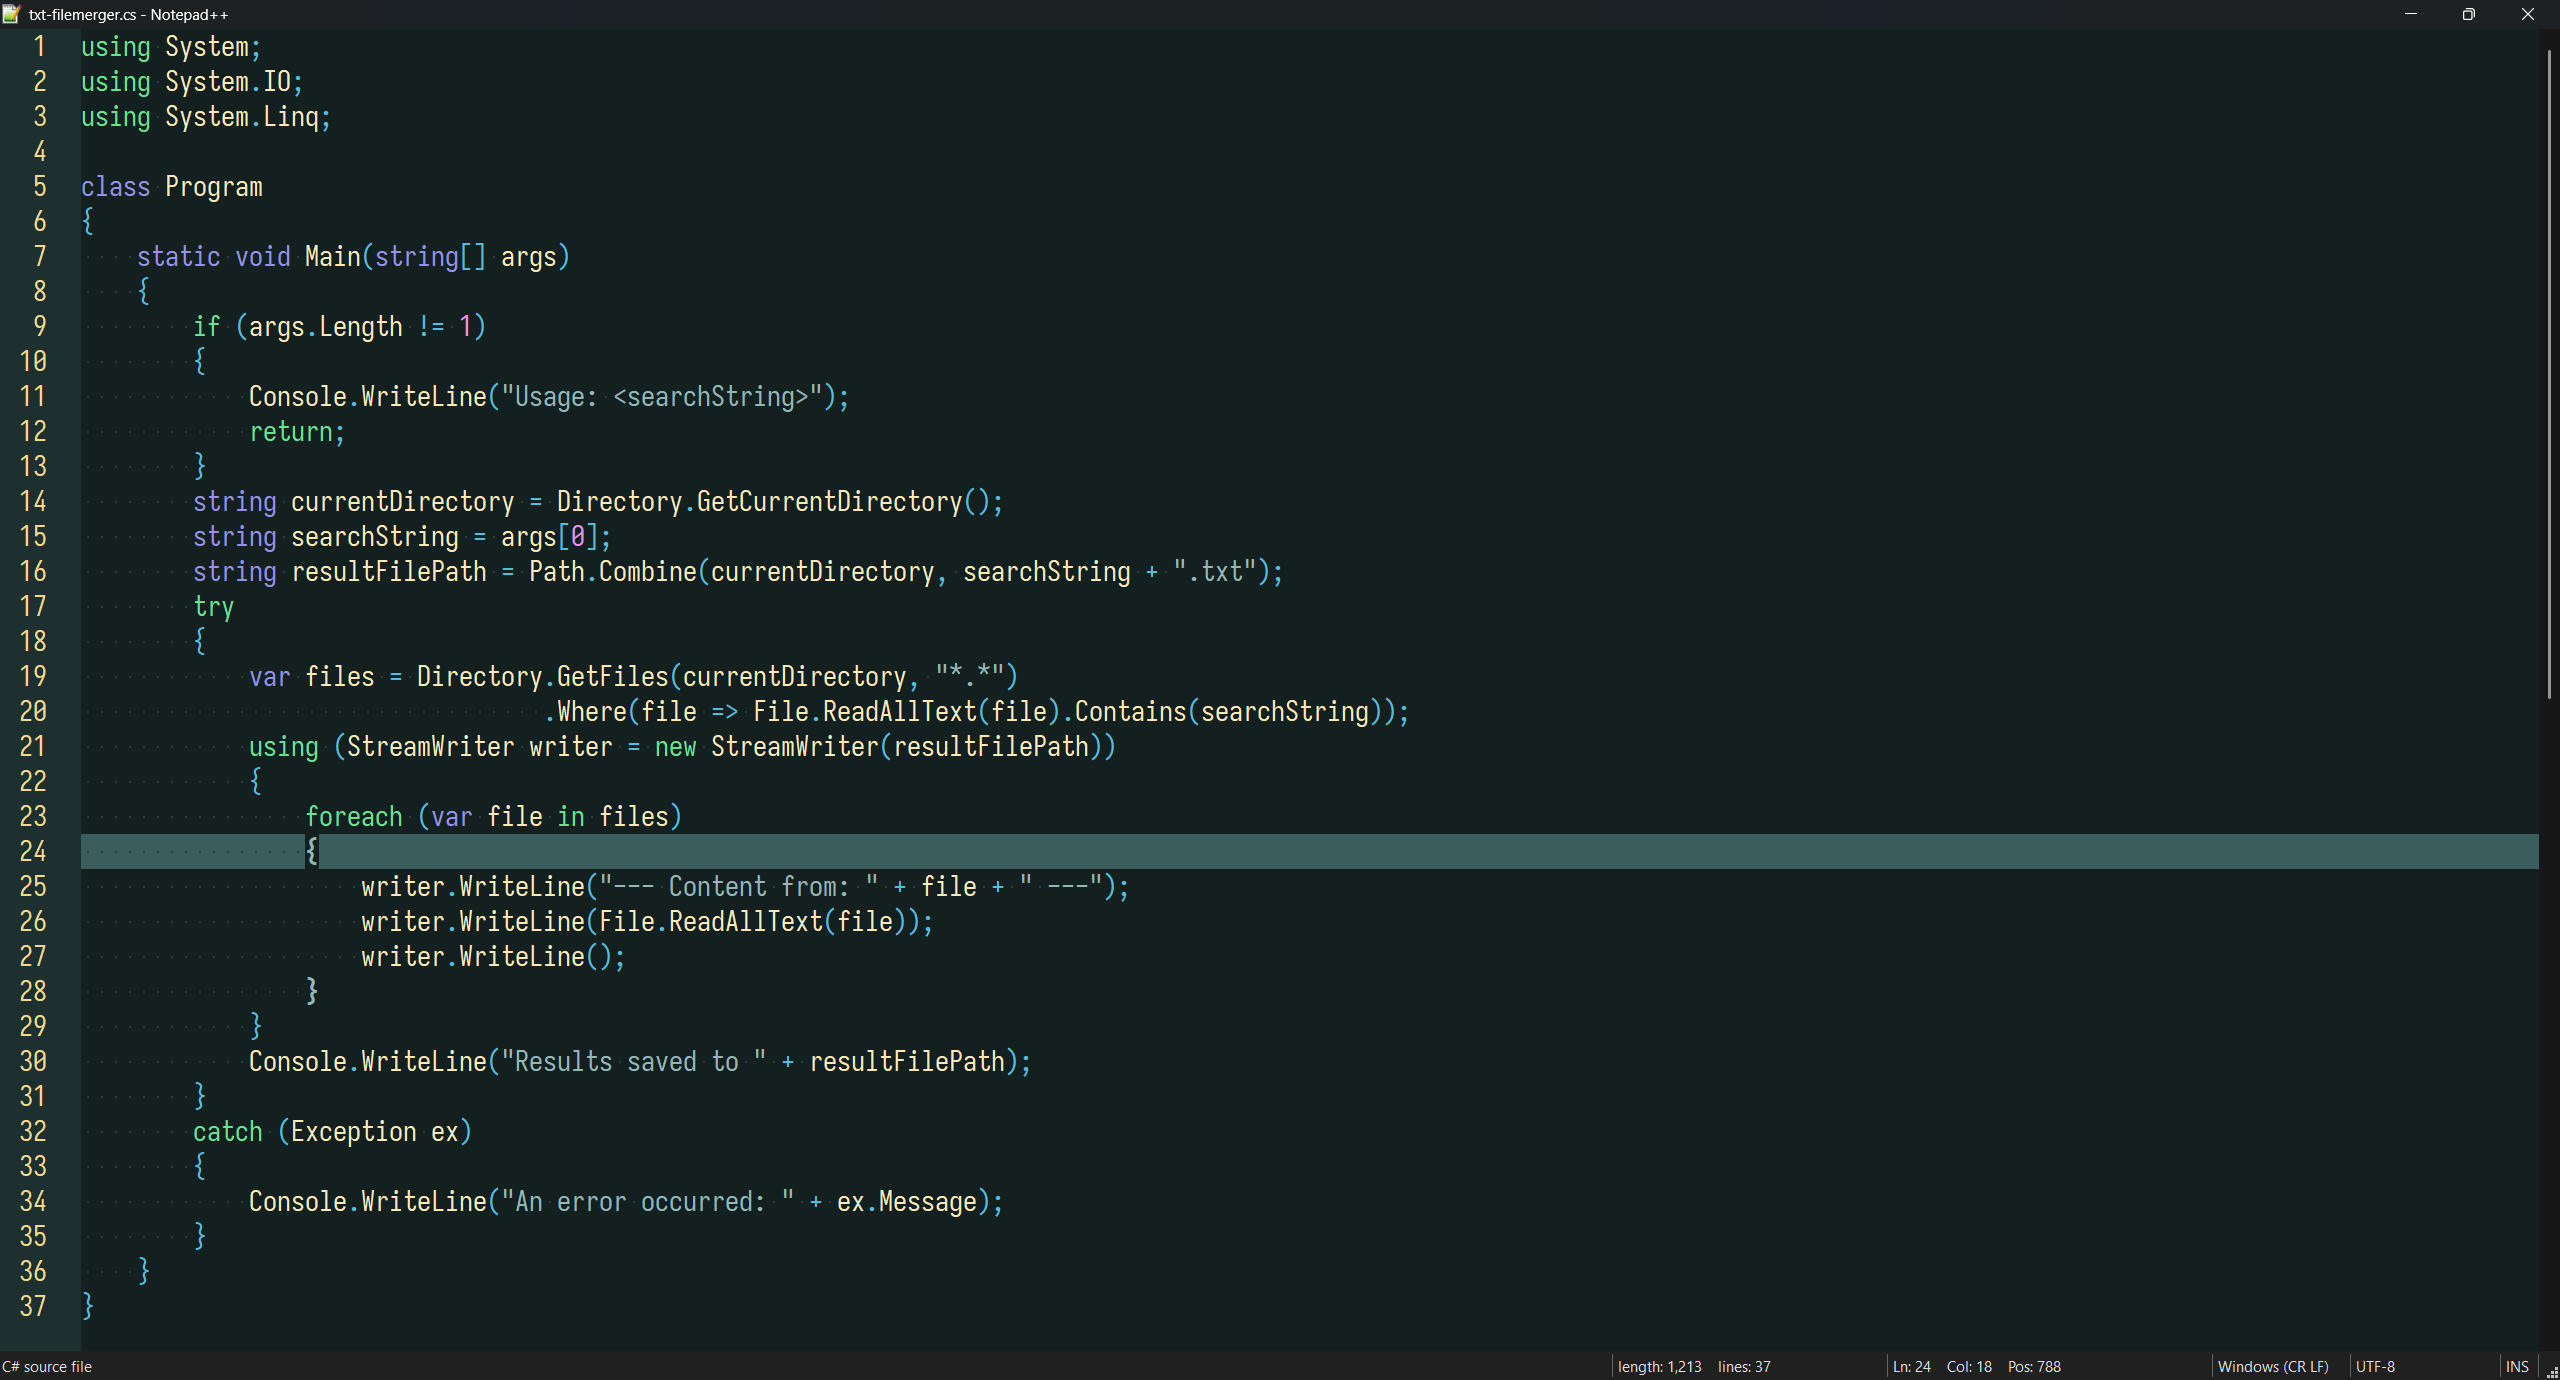
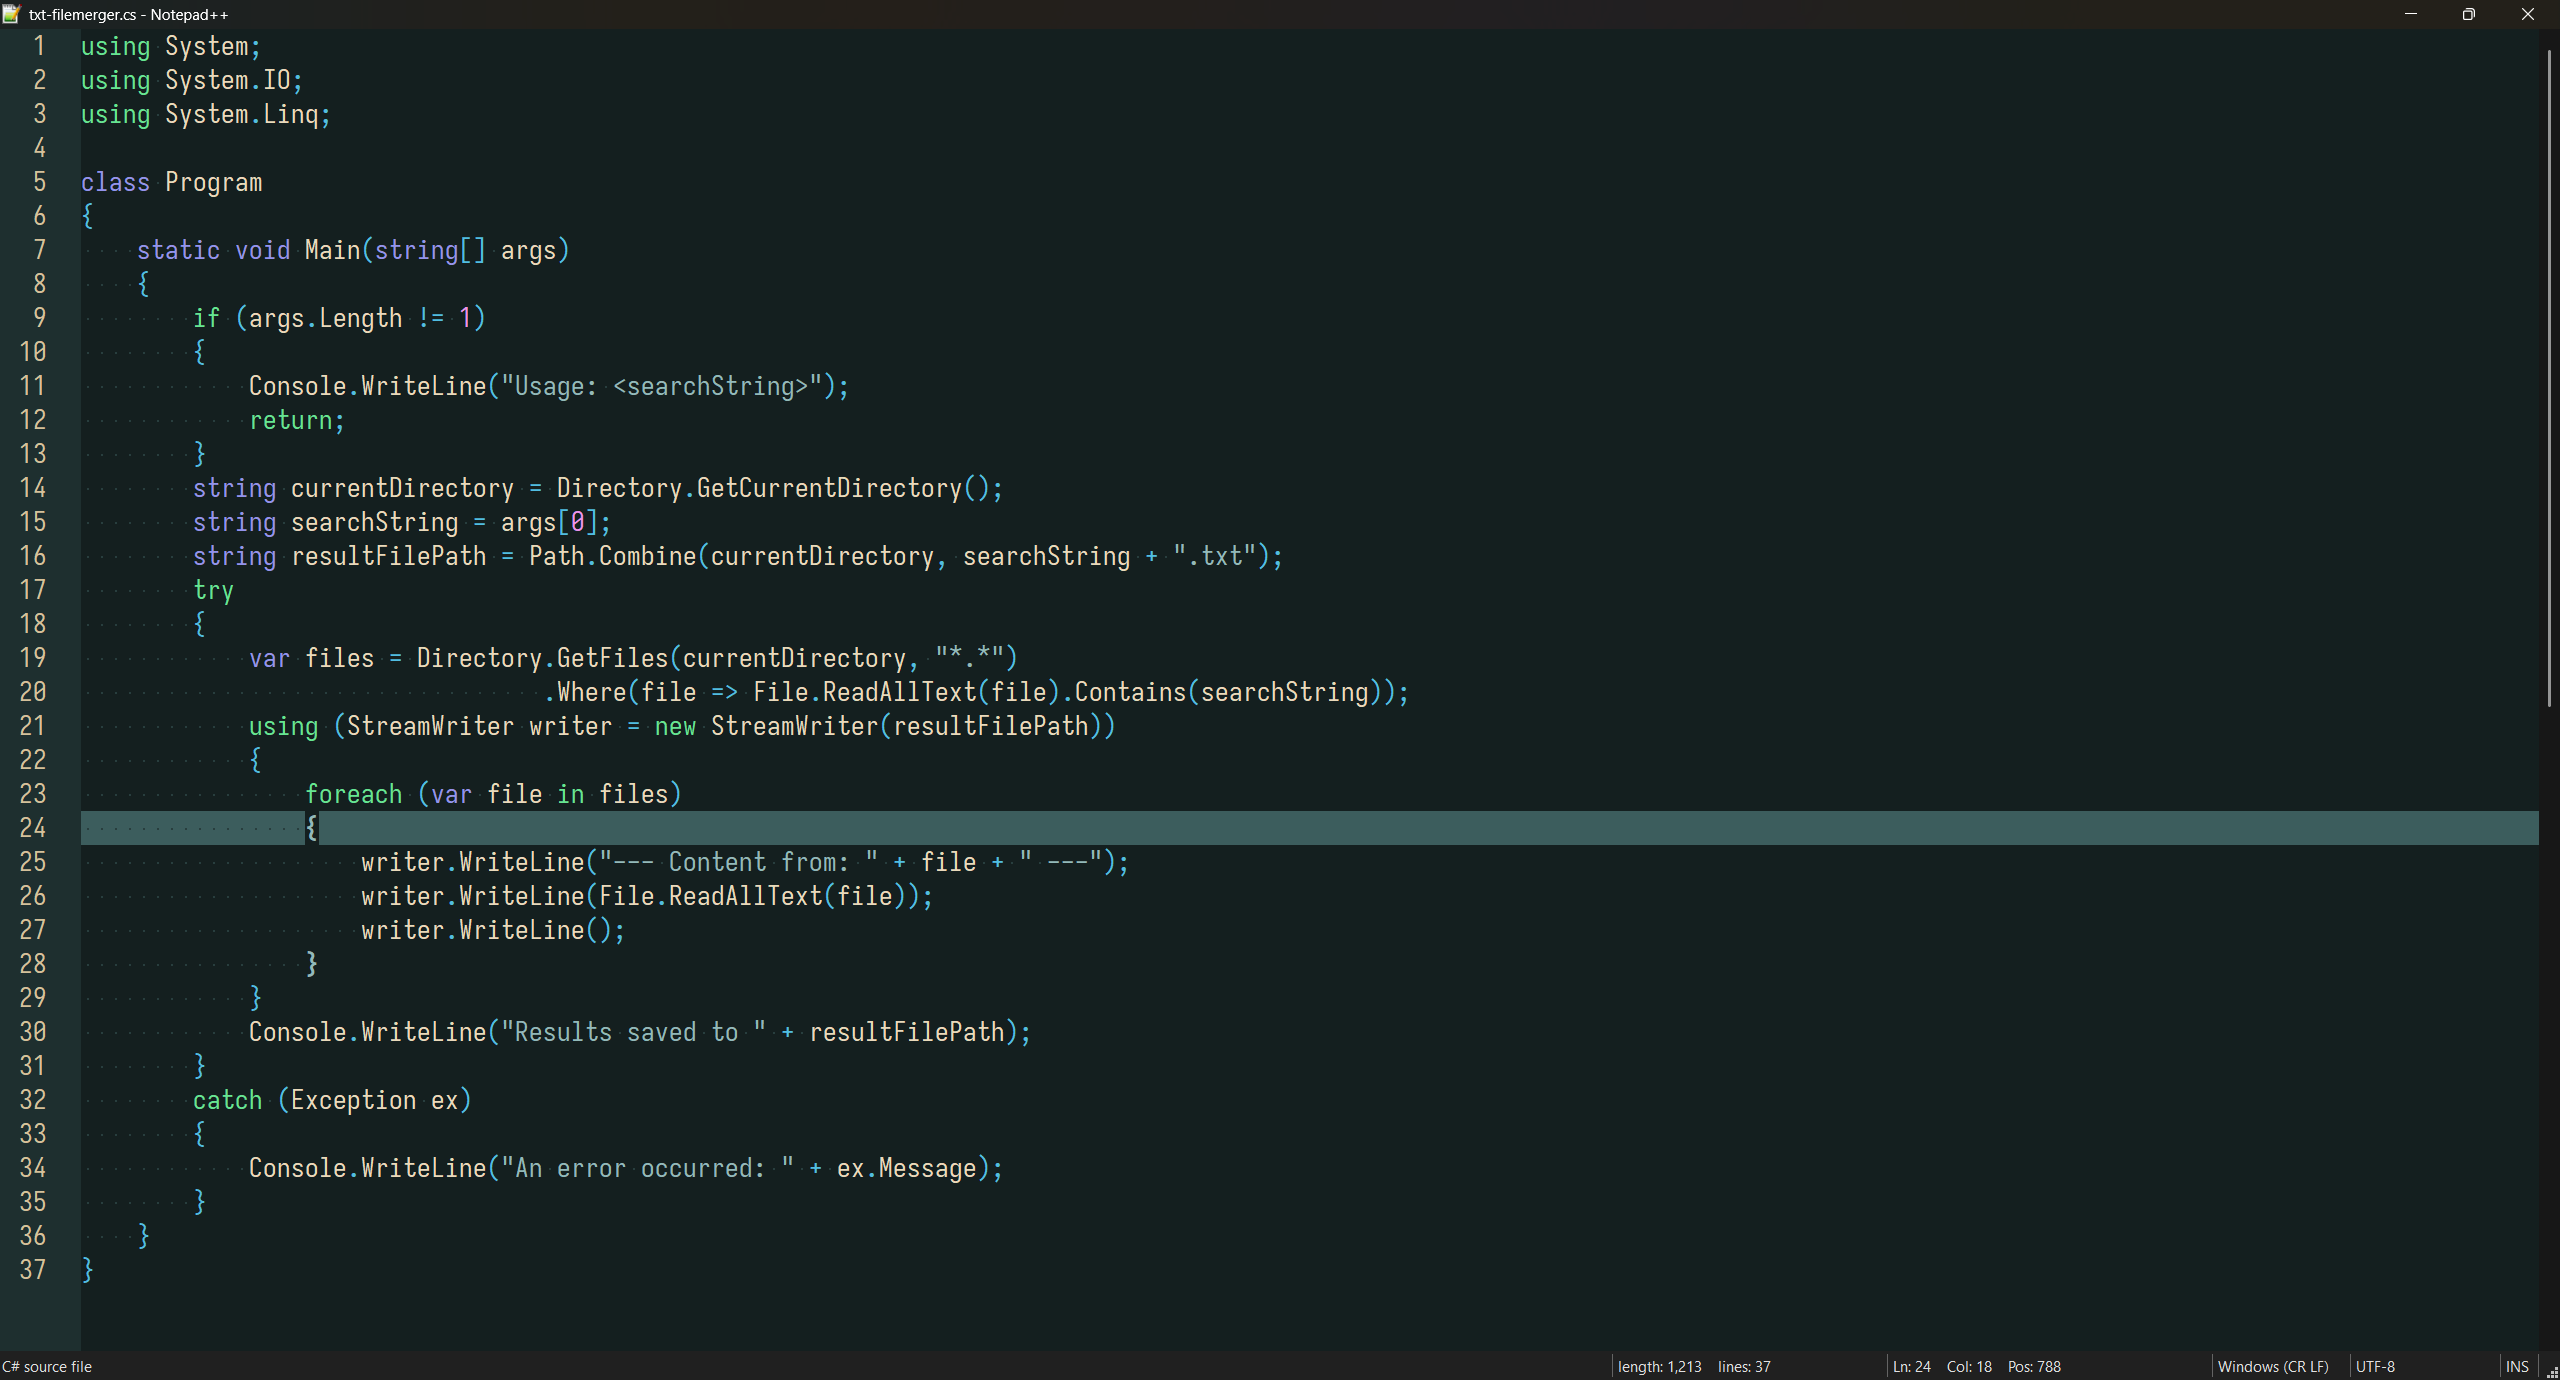
adding tundra theme, refactor cyrodiil, change highlight 20k-leauges

diff --git a/scheme_files/other/tundra.html b/scheme_files/other/tundra.html
@@ -17,7 +17,7 @@ this template is meant as a reference sheet for your color theme
 	</head>
 	<body>
 		<br>
-		<h3>cyrodiil</h3>
+		<h3>tundra</h3>
 		<table>
 			<tr>
 				<th>DESC</th>
@@ -26,49 +26,49 @@ this template is meant as a reference sheet for your color theme
 			</tr>
 			<tr>
 				<td>Background - 1st level<br><a>UI: default text bg</a></td>
-				<td>#b7997b</td>
-				<td style="background-color:#b7997b;"></td>
+				<td>#2e4238</td>
+				<td style="background-color:#2e4238;"></td>
 			</tr>
 			<tr>
 				<td>Background - 2nd level<br><a>UI: inactive tab or file bg, 2nd level surfaces bg</a></td>
-				<td>#c0a68c</td>
-				<td style="background-color:#c0a68c;"></td>
+				<td>#385145</td>
+				<td style="background-color:#385145;"></td>
 			</tr>
 			<tr>
 				<td>Background - 3rd level<br><a>UI: separators, other bg symbols</a></td>
-				<td>#c9b39c</td>
-				<td style="background-color:#c9b39c;"></td>
+				<td>#436052</td>
+				<td style="background-color:#436052;"></td>
 			</tr>
 			<tr>
 				<td>Foreground - 1st level<br><a>UI: cursor
                 <br>SYNTAX: default text</a></td>
-				<td>#000000</td>
-				<td style="background-color:#000000;"></td>
+				<td>#c4d8de</td>
+				<td style="background-color:#c4d8de;"></td>
 			</tr>
 			<tr>
 				<td>Foreground - 2nd level<br><a>UI: 2nd level surfaces fg, inactive tab or file fg</td>
-				<td>#211812</td>
-				<td style="background-color:#211812;"></td>
+				<td>#a7c0c8</td>
+				<td style="background-color:#a7c0c8;"></td>
 			</tr>
 			<tr>
 				<td>Foreground - 3rd level<br><a>UI: fold, line numbers<br>SYNTAX: comments</a></td>
-				<td>#3b312b</td>
-				<td style="background-color:#3b312b;"></td>
+				<td>#abbec4</td>
+				<td style="background-color:#abbec4;"></td>
 			</tr>
 			<tr>
 				<td>Highlight - 1st level<br><a>UI: alternative marks</a></td>
-				<td>#f6f2ef</td>
-				<td style="background-color:#f6f2ef;"></td>
+				<td>#8da7b0</td>
+				<td style="background-color:#8da7b0;"></td>
 			</tr>	
 			<tr>
 				<td>Highlight - 2nd level<br><a>UI: selection, search marks, fold marks</a></td>
-				<td>#e4d9ce</td>
-				<td style="background-color:#e4d9ce;"></td>
+				<td>#6f909b</td>
+				<td style="background-color:#6f909b;"></td>
 			</tr>	
 			<tr>
 				<td>Highlight - 3rd level<br><a>UI: current line</a></td>
-				<td>#d2c0ad</td>
-				<td style="background-color:#d2c0ad;"></td>
+				<td>#58757e</td>
+				<td style="background-color:#58757e;"></td>
 			</tr>
 		</table>
 		<br>
@@ -83,35 +83,35 @@ this template is meant as a reference sheet for your color theme
 			<tr>
 				<td>syntax 1<br><a>UI: change history modified, alert, error
                 <br>SYNTAX: macro, methods, functions, symbols (question mark, shebang, etc.)<br>TERMINAL: red</a></td>
-				<td>#862d2d</td>
-				<td style="background-color:#862d2d;"></td>
+				<td>#d194a3</td>
+				<td style="background-color:#d194a3;"></td>
 			</tr>
 			<tr>
 				<td>syntax 2<br><a>UI: change history revert origin, change history revert modified, warnings
                 <br>SYNTAX: strings, char, regex, verbatim<br>TERMINAL: yellow</a></td>
-				<td>#595959</td>
-				<td style="background-color:#595959;"></td>
+				<td>#d1d194</td>
+				<td style="background-color:#d1d194;"></td>
 			</tr>
 			<tr>
 				<td>syntax 3<br><a>SYNTAX: opertors, variables, identifiers<br>TERMINAL: cyan</a></td>
-				<td>#3e7474</td>
-				<td style="background-color:#3e7474;"></td>
+				<td>#94d1b3</td>
+				<td style="background-color:#94d1b3;"></td>
 			</tr>
 			<tr>
 				<td>syntax 4<br><a>UI: change history saved
                 <br>SYNTAX: conditionals, keywords, tags, commands, instructions<br>TERMINAL: green</a></td>
-				<td>#3e743e</td>
-				<td style="background-color:#3e743e;"></td>
+				<td>#b3d194</td>
+				<td style="background-color:#b3d194;"></td>
 			</tr>
 			<tr>
 				<td>syntax 5<br><a>SYNTAX: keys, types, class, groups, sections, preprocessor<br>TERMINAL: blue</a></td>
-				<td>#3e3e74</td>
-				<td style="background-color:#3e3e74;"></td>
+				<td>#94c2d1</td>
+				<td style="background-color:#94c2d1;"></td>
 			</tr>
 			<tr>
 				<td>syntax 6<br><a>SYNTAX: qualifier, numbers, booleans, attributes<br>TERMINAL: magenta (purple)</a></td>
-				<td>#743e74</td>
-				<td style="background-color:#743e74;"></td>
+				<td>#d194c2</td>
+				<td style="background-color:#d194c2;"></td>
 			</tr>
 		</table>
 		<br>

diff --git a/scheme_files/other/20k-leagues-under-seas.html b/scheme_files/other/20k-leagues-under-seas.html
@@ -42,18 +42,18 @@ this template is meant as a reference sheet for your color theme
 			<tr>
 				<td>Foreground - 1st level<br><a>UI: cursor
                 <br>SYNTAX: default text</a></td>
-				<td>#fbeab6</td>
-				<td style="background-color:#fbeab6;"></td>
+				<td>#e9d9ba</td>
+				<td style="background-color:#e9d9ba;"></td>
 			</tr>
 			<tr>
 				<td>Foreground - 2nd level<br><a>UI: 2nd level surfaces fg, inactive tab or file fg</td>
-				<td>#f2d98c</td>
-				<td style="background-color:#f2d98c;"></td>
+				<td>#d5c19a</td>
+				<td style="background-color:#d5c19a;"></td>
 			</tr>
 			<tr>
 				<td>Foreground - 3rd level<br><a>UI: fold, line numbers<br>SYNTAX: comments</a></td>
-				<td>#dbc170</td>
-				<td style="background-color:#dbc170;"></td>
+				<td>#c9b58d</td>
+				<td style="background-color:#c9b58d;"></td>
 			</tr>
 			<tr>
 				<td>Highlight - 1st level<br><a>UI: alternative marks</a></td>

diff --git a/doc/galery.md b/doc/galery.md
@@ -126,5 +126,8 @@ This is my solution for a better (in my eyes) implementation of the solar punk g
 **Steampunk**<br>
 ![](/assets/pictures/text-editor/steampunk.png)<br><br>
 ![](/assets/pictures/terminal/steampunk.png)<br><br>
+**Tundra**<br>
+![](/assets/pictures/text-editor/tundra.png)<br><br>
+![](/assets/pictures/terminal/tundra.png)<br><br>
 
 **[Back](https://github.com/fm3chanic/color_schemes)**
